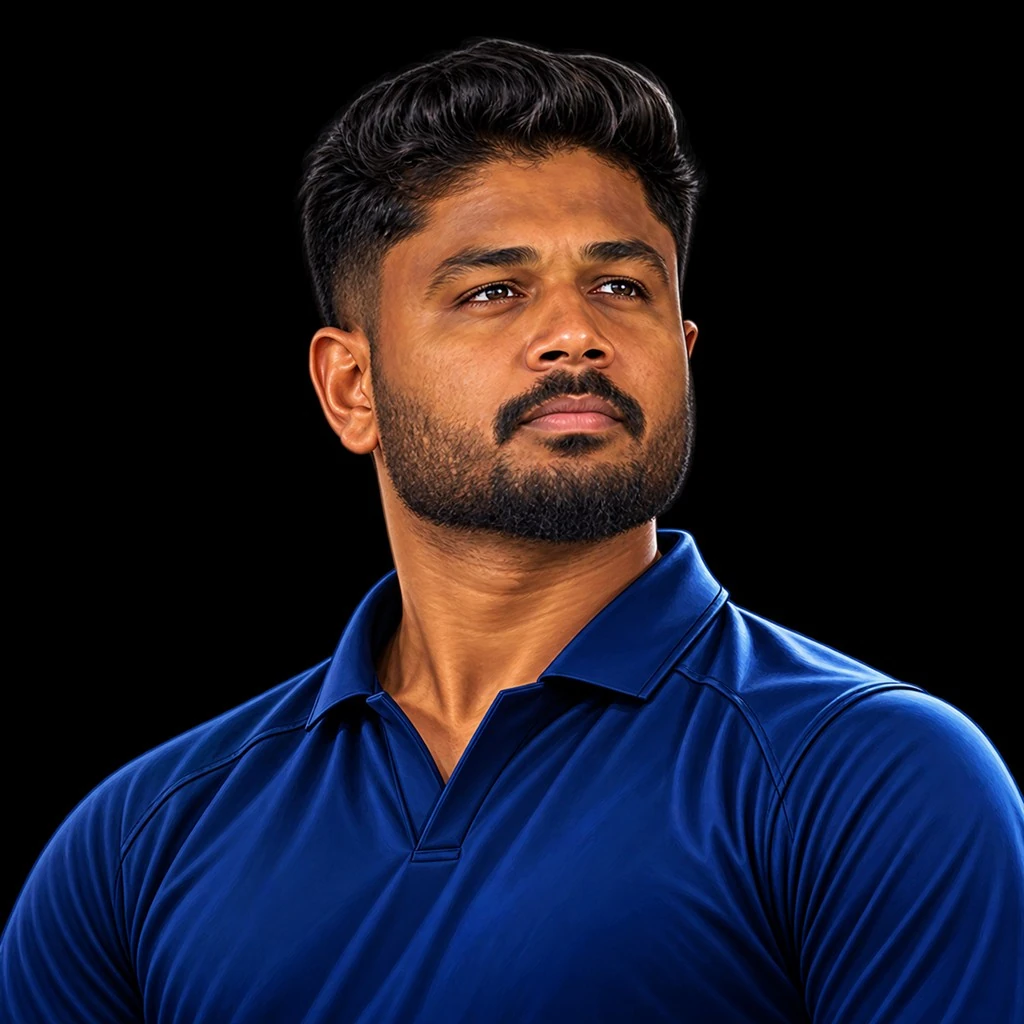
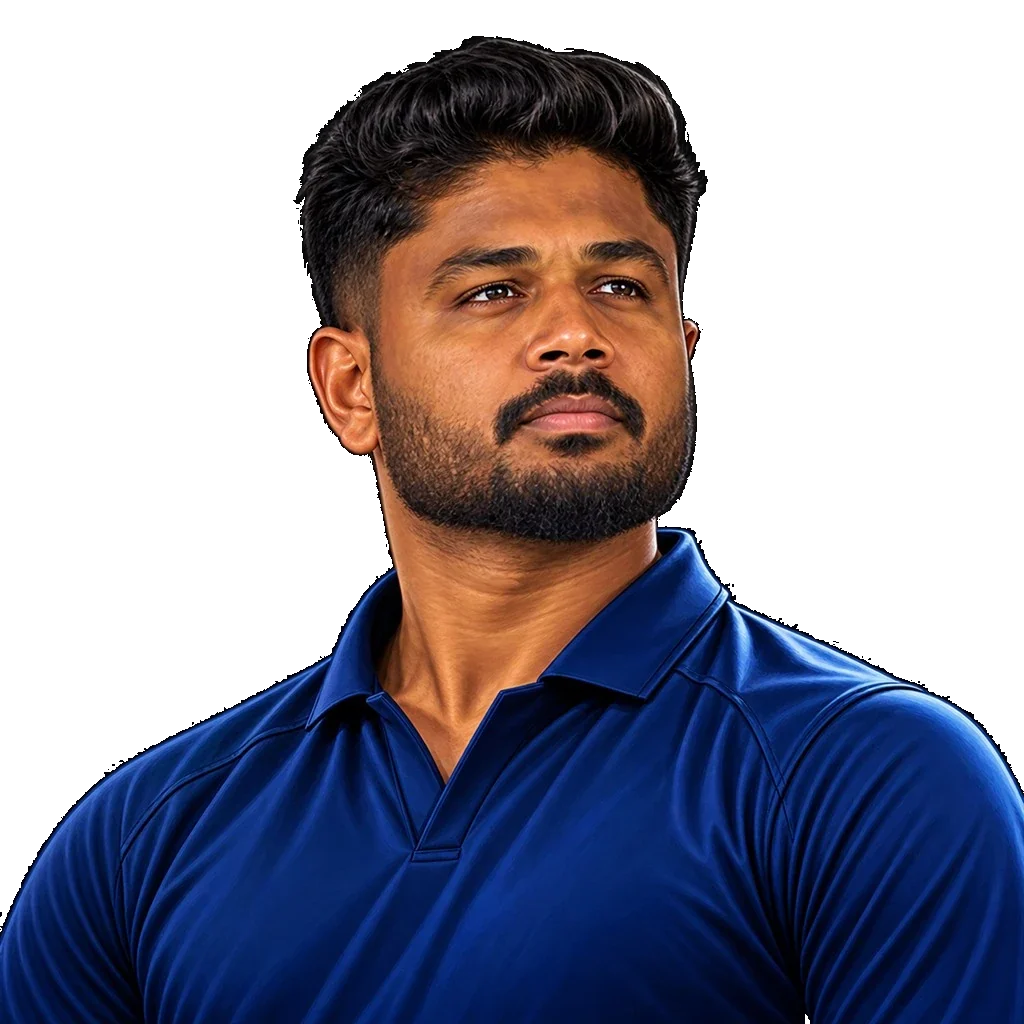
feat: improve player layouts and remove visible scrollbars

diff --git a/src/components/cards.tsx b/src/components/cards.tsx
@@ -4,15 +4,25 @@ import { GuestBuyLink } from "./guest-trade";
 import { PulseStar } from "./pulse-star";
 import { LiveDot, Portrait, PriceText, Sparkline, roleLabel } from "./visuals";
 
-export function LiveCard({ player, className = "w-[178px] shrink-0", guest = false }: { player: PlayerView; className?: string; guest?: boolean }) {
+export function LiveCard({ player, className = "w-[220px] shrink-0", guest = false }: { player: PlayerView; className?: string; guest?: boolean }) {
   const up = Number(player.changePaise) >= 0;
   return (
     <article className={`${className} rounded-2xl border border-line bg-card p-3`}>
-      <div className="flex items-start justify-between gap-2">
-        <Portrait name={player.name} seed={player.slug} className="h-20 w-16" />
-        <LiveDot live={player.live} />
+      <div className="flex items-center gap-2">
+        <Portrait name={player.name} seed={player.slug} className="h-16 w-14" />
+        <div className="min-w-0 flex-1">
+          <div className="flex items-start justify-between gap-1">
+            <h3 className="wrap-anywhere text-sm font-semibold">{player.name}</h3>
+            <LiveDot live={player.live} />
+          </div>
+          <p className="num text-lg font-bold">
+            <PriceText playerId={player.id} field="mid" paise={player.midPaise} />
+          </p>
+          <p className="text-xs">
+            <PriceText playerId={player.id} field="change" changePaise={player.changePaise} changePercent={player.changePercent} />
+          </p>
+        </div>
       </div>
-      <h3 className="wrap-anywhere mt-2 text-sm font-semibold">{player.name}</h3>
       {player.pulse ? (
         <p className="mt-1 flex min-w-0 flex-wrap items-center gap-1 text-[11px] text-muted">
           <PulseStar playerId={player.id} state={player.pulse.state} />
@@ -21,12 +31,6 @@ export function LiveCard({ player, className = "w-[178px] shrink-0", guest = fal
           <span className="rounded-full bg-pitch px-1.5 py-0.5 text-[10px] font-semibold text-india">Showcase</span>
         </p>
       ) : null}
-      <p className="num text-lg font-bold">
-        <PriceText playerId={player.id} field="mid" paise={player.midPaise} />
-      </p>
-      <p className="text-xs">
-        <PriceText playerId={player.id} field="change" changePaise={player.changePaise} changePercent={player.changePercent} />
-      </p>
       <Sparkline playerId={player.id} values={player.history} positive={up} />
       <div className="mt-2 grid grid-cols-2 gap-1.5">
         {guest ? (
@@ -48,16 +52,18 @@ export function LiveCard({ player, className = "w-[178px] shrink-0", guest = fal
 export function MoverCard({ player }: { player: PlayerView }) {
   const up = Number(player.changePaise) >= 0;
   return (
-    <Link href={`/players/${player.slug}`} className="w-[148px] shrink-0 rounded-2xl border border-line bg-card p-3">
+    <Link href={`/players/${player.slug}`} className="flex w-[196px] shrink-0 items-center gap-2 rounded-2xl border border-line bg-card p-3">
       <Portrait name={player.name} alt={player.name} seed={player.slug} className="h-16 w-14" />
-      <p className="wrap-anywhere mt-2 text-sm font-semibold">{player.shortName}</p>
-      <p className="num text-sm font-semibold">
-        <PriceText playerId={player.id} field="mid" paise={player.midPaise} />
-      </p>
-      <p className={`text-xs ${up ? "text-gain" : "text-loss"}`}>
-        <PriceText playerId={player.id} field="change" changePaise={player.changePaise} changePercent={player.changePercent} />
-      </p>
-      <Sparkline playerId={player.id} values={player.history} positive={up} />
+      <span className="min-w-0 flex-1">
+        <p className="wrap-anywhere text-sm font-semibold">{player.shortName}</p>
+        <p className="num text-sm font-semibold">
+          <PriceText playerId={player.id} field="mid" paise={player.midPaise} />
+        </p>
+        <p className="text-xs">
+          <PriceText playerId={player.id} field="change" changePaise={player.changePaise} changePercent={player.changePercent} />
+        </p>
+        <Sparkline playerId={player.id} values={player.history} positive={up} />
+      </span>
     </Link>
   );
 }

diff --git a/src/app/(customer)/players/[slug]/page.tsx b/src/app/(customer)/players/[slug]/page.tsx
@@ -61,29 +61,27 @@ export default async function PlayerPage({
         <Logo wordmark={false} />
         <LiveDot live={player.live} stale={player.stale} playerId={player.id} />
       </header>
-      <section className="mt-4">
-        <div className="flex items-start justify-between gap-3">
-          <div className="min-w-0">
-            <h1 className="wrap-anywhere text-2xl font-bold leading-tight">{player.name}</h1>
-            <p className="mt-1 text-xs text-muted">
-              INDIA · {roleLabel(player.role).toUpperCase()}
-              {player.jerseyNumber ? ` · #${player.jerseyNumber}` : ""}
-            </p>
-          </div>
-          <Portrait name={player.name} seed={player.slug} className="h-14 w-12 shrink-0" />
+      <section className="mt-4 flex items-center gap-3">
+        <div className="min-w-0 flex-1">
+          <h1 className="wrap-anywhere text-2xl font-bold leading-tight">{player.name}</h1>
+          <p className="mt-1 text-xs text-muted">
+            INDIA · {roleLabel(player.role).toUpperCase()}
+            {player.jerseyNumber ? ` · #${player.jerseyNumber}` : ""}
+          </p>
+          <p className="num mt-3 text-[clamp(1.75rem,8vw,2.5rem)] font-bold leading-none">
+            <PriceText playerId={player.id} field="mid" paise={player.midPaise} />
+          </p>
+          <p className="mt-1 text-sm">
+            <PriceText playerId={player.id} field="change" changePaise={player.changePaise} changePercent={player.changePercent} />
+            <span className="ml-1 text-muted">Today</span>
+          </p>
+          {user ? (
+            <div className="mt-3">
+              <WatchButton playerId={player.id} initial={Boolean(watch)} />
+            </div>
+          ) : null}
         </div>
-        <p className="num mt-4 text-4xl font-bold leading-none">
-          <PriceText playerId={player.id} field="mid" paise={player.midPaise} />
-        </p>
-        <p className="mt-1 text-sm">
-          <PriceText playerId={player.id} field="change" changePaise={player.changePaise} changePercent={player.changePercent} />
-          <span className="ml-1 text-muted">Today</span>
-        </p>
-        {user ? (
-          <div className="mt-3">
-            <WatchButton playerId={player.id} initial={Boolean(watch)} />
-          </div>
-        ) : null}
+        <Portrait name={player.name} seed={player.slug} className="h-44 w-36 shrink-0" />
       </section>
       <dl className="mt-3 grid grid-cols-2 gap-2 text-center text-[11px]">
         <Stat label="24h High" value={formatPaise(player.highPaise)} />

diff --git a/src/components/featured-player.tsx b/src/components/featured-player.tsx
@@ -73,24 +73,24 @@ export function FeaturedPlayerHero({
 
   return (
     <article className={`py-1 ${reduced ? "" : "hero-fade"}`} key={player.id} aria-live="polite">
-      <div className="flex items-start justify-between gap-3">
-        <div className="min-w-0">
-          <p className="text-xs font-semibold tracking-wide text-muted">{player.reason ?? "Trending"}</p>
+      <div className="flex items-center gap-3">
+        <div className="min-w-0 flex-1">
+          <div className="flex items-center gap-2">
+            <p className="text-xs font-semibold tracking-wide text-muted">{player.reason ?? "Trending"}</p>
+            <LiveDot live={player.live} stale={player.stale} playerId={player.id} />
+          </div>
           <h2 className="wrap-anywhere mt-1 text-xl font-bold leading-tight">
             <Link href={profile}>{player.name}</Link>
           </h2>
+          <p className="num mt-2 text-[clamp(1.75rem,8vw,2.5rem)] font-bold leading-none">
+            <PriceText playerId={player.id} field="mid" paise={player.midPaise} />
+          </p>
+          <p className="mt-1 text-sm">
+            <PriceText playerId={player.id} field="change" changePaise={player.changePaise} changePercent={player.changePercent} />
+          </p>
         </div>
-        <div className="flex items-center gap-2">
-          <LiveDot live={player.live} stale={player.stale} playerId={player.id} />
-          <Portrait name={player.name} seed={player.slug} className="h-14 w-12" />
-        </div>
+        <Portrait name={player.name} seed={player.slug} className="h-40 w-32 shrink-0" />
       </div>
-      <p className="num mt-3 text-4xl font-bold leading-none">
-        <PriceText playerId={player.id} field="mid" paise={player.midPaise} />
-      </p>
-      <p className="mt-1 text-sm">
-        <PriceText playerId={player.id} field="change" changePaise={player.changePaise} changePercent={player.changePercent} />
-      </p>
       <Sparkline playerId={player.id} values={player.history} positive={Number(player.changePaise) >= 0} className="mt-3 h-24 w-full" />
       <div className="mt-3 grid grid-cols-2 gap-2">
         {signedIn ? (

diff --git a/src/app/(customer)/home/page.tsx b/src/app/(customer)/home/page.tsx
@@ -75,7 +75,7 @@ export default async function HomePage() {
             {pulsers.map((position) => (
               <Link key={position.playerId} href={`/players/${position.slug}`} className="w-[220px] shrink-0 rounded-2xl border border-line bg-card p-3">
                 <div className="flex gap-2">
-                  <Portrait name={position.name} seed={position.slug} className="h-14 w-12" />
+                  <Portrait name={position.name} seed={position.slug} className="h-16 w-14" />
                   <div className="min-w-0">
                     <p className="truncate font-semibold">{position.name}</p>
                     <p className="text-xs text-muted">{position.quantity} Pulsers</p>

diff --git a/src/app/(customer)/portfolio/page.tsx b/src/app/(customer)/portfolio/page.tsx
@@ -32,7 +32,7 @@ export default async function PortfolioPage() {
             return (
               <li key={position.playerId} className="rounded-3xl border border-line bg-card p-3">
                 <div className="flex gap-3">
-                  <Portrait name={position.name} seed={position.slug} className="h-20 w-16" />
+                  <Portrait name={position.name} seed={position.slug} className="h-24 w-20" />
                   <div className="min-w-0 flex-1">
                     <div className="flex items-center justify-between gap-2">
                       <p className="wrap-anywhere font-semibold">{position.name}</p>

diff --git a/src/components/market-list.tsx b/src/components/market-list.tsx
@@ -12,7 +12,7 @@ export const MarketRow = memo(function MarketRow({ player }: { player: PlayerVie
   const up = Number(player.changePaise) >= 0;
   return (
     <Link href={`/players/${player.slug}`} className="flex min-w-0 items-center gap-3 border-b border-line/70 py-3">
-      <Portrait name={player.name} seed={player.slug} className="h-11 w-10 shrink-0" />
+      <Portrait name={player.name} seed={player.slug} className="h-[4.75rem] w-[4.25rem] shrink-0" />
       <div className="min-w-0 flex-1">
         <p className="truncate font-semibold">{player.name}</p>
         <p className="num text-sm font-semibold">

diff --git a/src/app/globals.css b/src/app/globals.css
@@ -51,11 +51,37 @@ body {
   overflow-x: auto;
   scroll-snap-type: x mandatory;
   scrollbar-width: none;
+  -ms-overflow-style: none;
   padding-bottom: 0.15rem;
 }
 
 .snap-row::-webkit-scrollbar {
   display: none;
+  width: 0;
+  height: 0;
+}
+
+.scroll-x {
+  overflow-x: auto;
+  scrollbar-width: none;
+  -ms-overflow-style: none;
+}
+
+.scroll-x::-webkit-scrollbar {
+  display: none;
+  width: 0;
+  height: 0;
+}
+
+.overflow-x-auto {
+  scrollbar-width: none;
+  -ms-overflow-style: none;
+}
+
+.overflow-x-auto::-webkit-scrollbar {
+  display: none;
+  width: 0;
+  height: 0;
 }
 
 .snap-row > * {

diff --git a/src/app/(customer)/market/page.tsx b/src/app/(customer)/market/page.tsx
@@ -48,7 +48,7 @@ export default async function MarketPage({
             className="mt-1 min-h-12 w-full rounded-2xl border border-line bg-card px-3"
           />
         </label>
-        <div className="flex max-w-full gap-2 overflow-x-auto text-sm">
+        <div className="scroll-x flex max-w-full gap-2 text-sm">
           <Link href="/market" className={`min-h-11 shrink-0 rounded-full px-3 py-2 ${!params.role && params.live !== "1" ? "bg-india" : "bg-card"}`}>
             All
           </Link>

diff --git a/src/components/visuals.tsx b/src/components/visuals.tsx
@@ -74,7 +74,7 @@ export function Portrait({
   );
   const src = playerArtworkSrc(seed);
   if (!src) return fallback;
-  return <PlayerArt src={src} alt={playerArtworkAlt(alt ?? name)} className={`${className} rounded-2xl`} fallback={fallback} />;
+  return <PlayerArt src={src} alt={playerArtworkAlt(alt ?? name)} className={className} fallback={fallback} />;
 }
 
 export function LiveDot({ live, stale = false, playerId }: { live: boolean; stale?: boolean; playerId?: string }) {

diff --git a/src/components/player-art.tsx b/src/components/player-art.tsx
@@ -22,7 +22,7 @@ export function PlayerArt({
       alt={alt}
       width={PLAYER_ARTWORK_WIDTH}
       height={PLAYER_ARTWORK_HEIGHT}
-      className={`${className} shrink-0 bg-black object-cover object-[center_18%]`}
+      className={`${className} shrink-0 bg-transparent object-contain object-center drop-shadow-[0_10px_16px_rgba(0,0,0,0.28)]`}
       onError={() => setFailed(true)}
     />
   );

diff --git a/scripts/cut-player-backgrounds.py b/scripts/cut-player-backgrounds.py
@@ -1,0 +1,72 @@
+"""Replace the solid black studio background on player caricatures with transparency.
+
+The cutout is a flood from the image edges through near-black, low-chroma pixels.
+Blue jerseys and hair that are not connected through that background stay intact.
+"""
+
+from pathlib import Path
+from PIL import Image
+
+ROOT = Path(__file__).resolve().parents[1] / "public" / "assets" / "players"
+
+
+def near_black(r: int, g: int, b: int, limit: int, chroma: int) -> bool:
+    brightest = r if r >= g and r >= b else g if g >= b else b
+    darkest = r if r <= g and r <= b else g if g <= b else b
+    return brightest <= limit and brightest - darkest <= chroma
+
+
+def cut(path: Path) -> None:
+    image = Image.open(path).convert("RGBA")
+    width, height = image.size
+    raw = bytearray(image.tobytes())
+    seen = bytearray(width * height)
+    queue: list[int] = []
+
+    def consider(index: int) -> None:
+        if seen[index]:
+            return
+        offset = index * 4
+        if not near_black(raw[offset], raw[offset + 1], raw[offset + 2], 6, 6):
+            return
+        seen[index] = 1
+        queue.append(index)
+
+    for x in range(width):
+        consider(x)
+        consider((height - 1) * width + x)
+    for y in range(height):
+        consider(y * width)
+        consider(y * width + width - 1)
+
+    head = 0
+    while head < len(queue):
+        index = queue[head]
+        head += 1
+        offset = index * 4
+        raw[offset + 3] = 0
+        x = index % width
+        y = index // width
+        if x > 0:
+            consider(index - 1)
+        if x + 1 < width:
+            consider(index + 1)
+        if y > 0:
+            consider(index - width)
+        if y + 1 < height:
+            consider(index + width)
+
+    Image.frombytes("RGBA", (width, height), bytes(raw)).save(path, "WEBP", quality=86, method=4)
+
+
+def main() -> None:
+    files = sorted(ROOT.glob("*.webp"))
+    if not files:
+        raise SystemExit(f"No player artwork in {ROOT}")
+    for path in files:
+        cut(path)
+        print(path.name)
+
+
+if __name__ == "__main__":
+    main()
